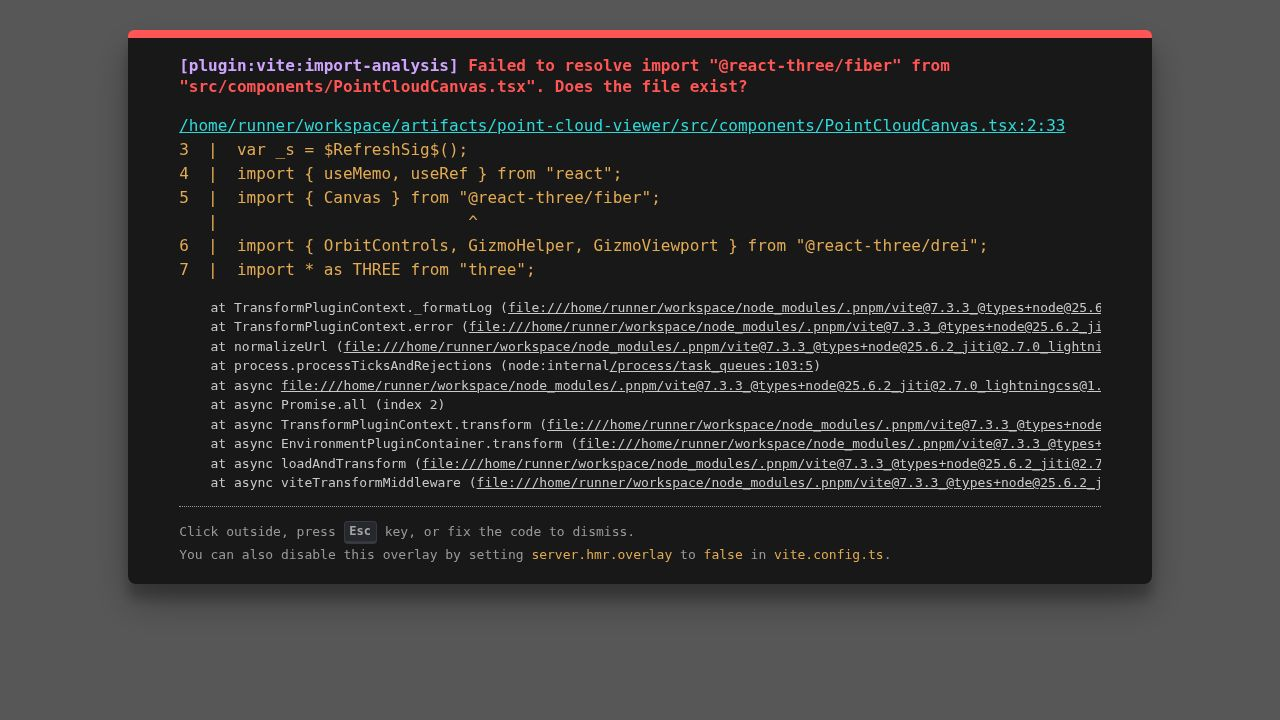
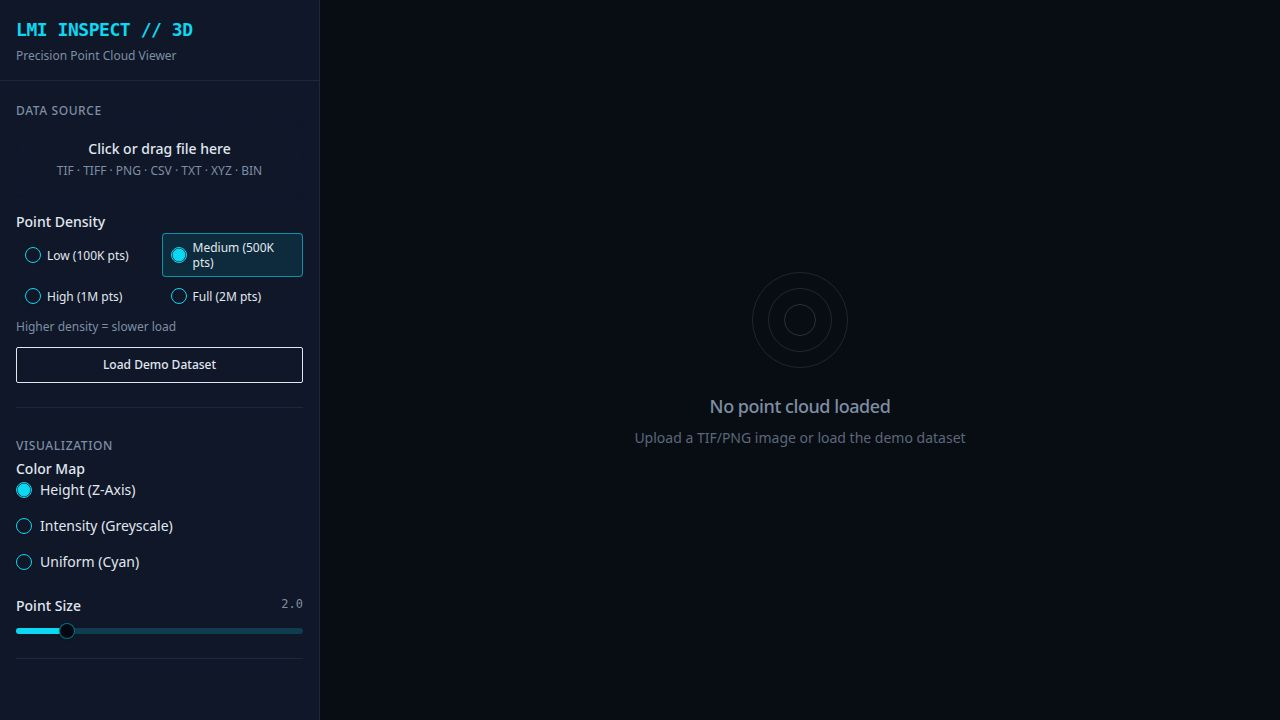
Improve app stability and memory usage when processing image files
Enhance Python server memory management and frontend timeout handling for TIFF file processing.

Replit-Commit-Author: Agent
Replit-Commit-Session-Id: 697ac9eb-e9fb-43b2-a009-babffc1647e0
Replit-Commit-Checkpoint-Type: full_checkpoint
Replit-Commit-Event-Id: c56e9d9b-1851-488a-940e-ed00a4a06205
Replit-Commit-Screenshot-Url: https://storage.googleapis.com/screenshot-production-us-central1/77319abf-6f19-4b1a-aa1f-67db4e9a3fd7/697ac9eb-e9fb-43b2-a009-babffc1647e0/qyPgxEJ
Replit-Helium-Checkpoint-Created: true

diff --git a/artifacts/point-cloud-viewer/src/lib/point-cloud.ts b/artifacts/point-cloud-viewer/src/lib/point-cloud.ts
@@ -171,14 +171,41 @@ export function parseCsv(text: string): PointCloudData {
 
 const MAGIC = 0x504c4300;
 
-export async function parseFromServer(file: File, maxPoints = 500_000): Promise<PointCloudData> {
+export async function parseFromServer(
+  file: File,
+  maxPoints = 100_000,
+  onStage?: (msg: string) => void,
+): Promise<PointCloudData> {
   const form = new FormData();
   form.append("file", file);
-  const res = await fetch(`/pc-api/upload?max_points=${maxPoints}`, { method: "POST", body: form });
+
+  onStage?.("Uploading to processor…");
+
+  const controller = new AbortController();
+  const timer = setTimeout(() => controller.abort(), 120_000); // 2-min hard timeout
+
+  let res: Response;
+  try {
+    res = await fetch(`/pc-api/upload?max_points=${maxPoints}`, {
+      method: "POST",
+      body: form,
+      signal: controller.signal,
+    });
+  } catch (e: unknown) {
+    if (e instanceof DOMException && e.name === "AbortError") {
+      throw new Error("Processing timed out (2 min). Try a lower density or a smaller file.");
+    }
+    throw e;
+  } finally {
+    clearTimeout(timer);
+  }
+
   if (!res.ok) {
     const err = await res.json().catch(() => ({ detail: res.statusText }));
     throw new Error(err.detail ?? `Server error ${res.status}`);
   }
+
+  onStage?.("Downloading point data…");
   const buf = await res.arrayBuffer();
   // Parse binary header: 7 x int32
   const header = new Int32Array(buf, 0, 7);
@@ -198,11 +225,15 @@ export async function parseFromServer(file: File, maxPoints = 500_000): Promise<
   };
 }
 
-export async function parseFile(file: File, maxPoints = 500_000): Promise<PointCloudData> {
+export async function parseFile(
+  file: File,
+  maxPoints = 100_000,
+  onStage?: (msg: string) => void,
+): Promise<PointCloudData> {
   const ext = file.name.split('.').pop()?.toLowerCase() ?? '';
 
   if (ext === 'tif' || ext === 'tiff' || ext === 'png') {
-    return parseFromServer(file, maxPoints);
+    return parseFromServer(file, maxPoints, onStage);
   }
 
   if (ext === 'bin' || ext === 'raw' || ext === 'lmi') {

diff --git a/artifacts/point-cloud-viewer/src/pages/Home.tsx b/artifacts/point-cloud-viewer/src/pages/Home.tsx
@@ -36,13 +36,10 @@ export default function Home() {
     setError(null);
     const ext = file.name.split(".").pop()?.toLowerCase() ?? "";
     const isImage = ext === "tif" || ext === "tiff" || ext === "png";
-    setLoadingStage(isImage ? "Uploading to processor..." : "Parsing file...");
+    setLoadingStage(isImage ? "Uploading to processor…" : "Parsing file…");
     try {
-      if (isImage) {
-        setLoadingStage("Reading image data...");
-      }
-      const parsed = await parseFile(file, pts ?? maxPoints);
-      setLoadingStage("Building point cloud...");
+      const parsed = await parseFile(file, pts ?? maxPoints, setLoadingStage);
+      setLoadingStage("Building point cloud…");
       setData(parsed);
     } catch (e: unknown) {
       setError(e instanceof Error ? e.message : "Failed to parse file");

diff --git a/artifacts/pc-processor/main.py b/artifacts/pc-processor/main.py
@@ -1,11 +1,16 @@
 import os
+import gc
 import io
 import struct
+import logging
 import numpy as np
 import tifffile
 from fastapi import FastAPI, File, UploadFile, HTTPException, Query
 from fastapi.middleware.cors import CORSMiddleware
 from fastapi.responses import Response
+
+logging.basicConfig(level=logging.INFO, format="%(levelname)s: %(message)s")
+log = logging.getLogger(__name__)
 
 app = FastAPI()
 
@@ -17,149 +22,121 @@ app.add_middleware(
 )
 
 MAX_FILE_MB = 500
-DEFAULT_MAX_POINTS = 500_000
+DEFAULT_MAX_POINTS = 100_000
 HARD_MAX_POINTS = 2_000_000
 
 
-def downsample(positions: np.ndarray, max_pts: int) -> np.ndarray:
-    """Uniform stride downsample — keeps spatial distribution."""
-    n = positions.shape[0]
-    if n <= max_pts:
-        return positions
-    step = max(1, n // max_pts)
-    return positions[::step]
-
-
 def clean_positions(xs: np.ndarray, ys: np.ndarray, zs: np.ndarray) -> np.ndarray:
-    """Stack and remove NaN, Inf, and all-zero rows."""
-    positions = np.stack([xs, ys, zs], axis=-1).astype(np.float32)
-    # Remove NaN or Inf
+    positions = np.column_stack([
+        xs.ravel().astype(np.float32),
+        ys.ravel().astype(np.float32),
+        zs.ravel().astype(np.float32),
+    ])
     valid = np.isfinite(positions).all(axis=1)
-    # Remove all-zero rows (masked/invalid pixels)
     valid &= ~((positions[:, 0] == 0) & (positions[:, 1] == 0) & (positions[:, 2] == 0))
-    return positions[valid]
+    return np.ascontiguousarray(positions[valid])
 
 
 def read_tif(data: bytes, max_pts: int) -> tuple[np.ndarray, dict]:
-    """
-    Read LMI 3-channel TIFF using tifffile.
-    Handles (H,W), (H,W,C), (C,H,W) layouts.
-    Returns (positions: Nx3 float32, meta: dict)
-    """
     with tifffile.TiffFile(io.BytesIO(data)) as tif:
         page = tif.pages[0]
-        bits = page.dtype.itemsize * 8
+        dtype = page.dtype
+        bits = dtype.itemsize * 8
+        shape = page.shape
+        log.info(f"TIFF shape={shape} dtype={dtype}")
 
-        # Read the first series — use level=0 for large images
-        try:
-            arr = tif.asarray()
-        except Exception as e:
-            raise ValueError(f"Could not decode TIFF: {e}")
-
-        arr = arr.astype(np.float32)
-
-        # Normalise shape to (H, W, C)
-        if arr.ndim == 2:
-            H, W = arr.shape
-            # Depth map: X=column, Y=row, Z=value
-            # Downsample spatially before building coordinate arrays
-            step = max(1, int(np.sqrt((H * W) / max_pts)))
-            arr_ds = arr[::step, ::step]
-            H2, W2 = arr_ds.shape
-            col_idx = np.tile(np.arange(W2, dtype=np.float32) * step, H2)
-            row_idx = np.repeat(np.arange(H2, dtype=np.float32) * step, W2)
-            zs = arr_ds.ravel()
-            positions = clean_positions(col_idx, row_idx, zs)
-            ch = 1
-        elif arr.ndim == 3:
-            # Detect (C, H, W) vs (H, W, C)
-            if arr.shape[0] <= 4 and arr.shape[0] < arr.shape[1] and arr.shape[0] < arr.shape[2]:
-                arr = np.moveaxis(arr, 0, -1)  # → (H, W, C)
-            H, W, C = arr.shape
-            ch = C
-
-            # Spatial downsample before extraction
-            step = max(1, int(np.sqrt((H * W) / max_pts)))
-            arr_ds = arr[::step, ::step, :]
-
-            if C == 1:
-                H2, W2 = arr_ds.shape[:2]
-                col_idx = np.tile(np.arange(W2, dtype=np.float32) * step, H2)
-                row_idx = np.repeat(np.arange(H2, dtype=np.float32) * step, W2)
-                zs = arr_ds[:, :, 0].ravel()
-                positions = clean_positions(col_idx, row_idx, zs)
-            elif C == 2:
-                xs = arr_ds[:, :, 0].ravel()
-                ys = arr_ds[:, :, 1].ravel()
-                zs = np.zeros_like(xs)
-                positions = clean_positions(xs, ys, zs)
+        # Determine H, W, C before loading any pixel data
+        if len(shape) == 2:
+            H, W, C = shape[0], shape[1], 1
+        elif len(shape) == 3:
+            # Could be (H,W,C) or (C,H,W) — detect by smallest first dim
+            if shape[0] <= 4 and shape[0] < shape[1] and shape[0] < shape[2]:
+                C, H, W = shape
             else:
-                # 3+ channels → X, Y, Z
-                xs = arr_ds[:, :, 0].ravel()
-                ys = arr_ds[:, :, 1].ravel()
-                zs = arr_ds[:, :, 2].ravel()
-                positions = clean_positions(xs, ys, zs)
+                H, W, C = shape
         else:
-            raise ValueError(f"Unsupported TIFF array shape: {arr.shape}")
+            raise ValueError(f"Unexpected TIFF shape: {shape}")
 
-    meta = {
-        "width": int(W) if "W" in dir() else 0,
-        "height": int(H) if "H" in dir() else 0,
-        "channels": int(ch),
-        "bitDepth": int(bits),
-        "pointCount": int(positions.shape[0]),
+        step = max(1, int(np.sqrt(H * W / max_pts)))
+        log.info(f"H={H} W={W} C={C} step={step} → ~{(H//step)*(W//step)} pts")
+
+        # Load the raw data — releases file handle on exit
+        raw = tif.asarray()
+
+    # ---- outside the TiffFile context — file handle closed ----
+
+    raw = raw.astype(np.float32)  # convert in-place-ish
+
+    if raw.ndim == 2:
+        arr_ds = raw[::step, ::step]
+        del raw; gc.collect()
+        H2, W2 = arr_ds.shape
+        xs = np.tile(np.arange(W2, dtype=np.float32) * step, H2)
+        ys = np.repeat(np.arange(H2, dtype=np.float32) * step, W2)
+        zs = arr_ds.ravel()
+        del arr_ds; gc.collect()
+
+    elif raw.ndim == 3:
+        # Normalise to (H, W, C) without copying if possible
+        if raw.shape[0] <= 4 and raw.shape[0] < raw.shape[1]:
+            raw = np.moveaxis(raw, 0, -1)   # (C,H,W) → (H,W,C)
+        H2_pre, W2_pre, C = raw.shape
+        arr_ds = np.ascontiguousarray(raw[::step, ::step, :])
+        del raw; gc.collect()
+        H2, W2 = arr_ds.shape[:2]
+
+        if C >= 3:
+            xs = arr_ds[:, :, 0].ravel()
+            ys = arr_ds[:, :, 1].ravel()
+            zs = arr_ds[:, :, 2].ravel()
+        elif C == 2:
+            xs = arr_ds[:, :, 0].ravel()
+            ys = arr_ds[:, :, 1].ravel()
+            zs = np.zeros(H2 * W2, dtype=np.float32)
+        else:  # 1 channel — depth map
+            xs = np.tile(np.arange(W2, dtype=np.float32) * step, H2)
+            ys = np.repeat(np.arange(H2, dtype=np.float32) * step, W2)
+            zs = arr_ds[:, :, 0].ravel()
+        del arr_ds; gc.collect()
+
+    else:
+        raise ValueError(f"Unexpected array ndim after load: {raw.ndim}")
+
+    positions = clean_positions(xs, ys, zs)
+    del xs, ys, zs; gc.collect()
+
+    log.info(f"Returning {positions.shape[0]} points")
+    return positions, {
+        "width": W, "height": H, "channels": C,
+        "bitDepth": bits, "pointCount": positions.shape[0],
     }
-    return positions, meta
 
 
 def read_png(data: bytes, max_pts: int) -> tuple[np.ndarray, dict]:
-    """Read PNG as 3-channel image → point cloud (R=X, G=Y, B=Z)."""
     from PIL import Image
     img = Image.open(io.BytesIO(data)).convert("RGB")
-    W, H = img.size
-
-    # Resize if too large
-    scale = min(1.0, (max_pts / (W * H)) ** 0.5)
+    W_orig, H_orig = img.size
+    scale = min(1.0, (max_pts / (W_orig * H_orig)) ** 0.5)
     if scale < 1.0:
-        W2, H2 = max(1, int(W * scale)), max(1, int(H * scale))
-        img = img.resize((W2, H2), Image.BILINEAR)
-    else:
-        W2, H2 = W, H
-
-    arr = np.array(img, dtype=np.float32) / 255.0  # (H2, W2, 3)
-    xs = (arr[:, :, 0] * W).ravel()
-    ys = (arr[:, :, 1] * H).ravel()
-    zs = (arr[:, :, 2] * W).ravel()
+        img = img.resize((max(1, int(W_orig * scale)), max(1, int(H_orig * scale))), Image.BILINEAR)
+    arr = np.array(img, dtype=np.float32) / 255.0
+    del img; gc.collect()
+    xs = (arr[:, :, 0] * W_orig).ravel()
+    ys = (arr[:, :, 1] * H_orig).ravel()
+    zs = (arr[:, :, 2] * W_orig).ravel()
+    del arr; gc.collect()
     positions = clean_positions(xs, ys, zs)
-    meta = {"width": W, "height": H, "channels": 3, "bitDepth": 8, "pointCount": int(positions.shape[0])}
-    return positions, meta
+    return positions, {"width": W_orig, "height": H_orig, "channels": 3, "bitDepth": 8}
 
 
 def encode_response(positions: np.ndarray, meta: dict) -> bytes:
-    """
-    Binary wire format:
-      Header  7 × int32 (28 bytes):
-        [0] magic = 0x504C4300
-        [1] point_count
-        [2] original_width
-        [3] original_height
-        [4] channels
-        [5] bit_depth
-        [6] reserved
-      Body: float32[N*3] interleaved X, Y, Z
-    """
     N = positions.shape[0]
     header = struct.pack(
-        "<7i",
-        0x504C4300,
-        N,
-        meta.get("width", 0),
-        meta.get("height", 0),
-        meta.get("channels", 3),
-        meta.get("bitDepth", 32),
-        0,
+        "<7i", 0x504C4300, N,
+        meta.get("width", 0), meta.get("height", 0),
+        meta.get("channels", 3), meta.get("bitDepth", 32), 0,
     )
-    return header + positions.astype(np.float32).tobytes()
+    return header + np.ascontiguousarray(positions, dtype=np.float32).tobytes()
 
 
 @app.get("/pc-api/healthz")
@@ -172,44 +149,47 @@ async def upload_file(
     file: UploadFile = File(...),
     max_points: int = Query(default=DEFAULT_MAX_POINTS, ge=1000, le=HARD_MAX_POINTS),
 ):
-    # Size guard
     data = await file.read()
     size_mb = len(data) / (1024 * 1024)
+    log.info(f"Received {file.filename!r} size={size_mb:.1f} MB max_points={max_points}")
+
     if size_mb > MAX_FILE_MB:
-        raise HTTPException(status_code=413, detail=f"File too large ({size_mb:.0f} MB). Max {MAX_FILE_MB} MB.")
+        raise HTTPException(413, f"File too large ({size_mb:.0f} MB). Max {MAX_FILE_MB} MB.")
 
     filename = (file.filename or "").lower()
-
     try:
-        if filename.endswith(".tif") or filename.endswith(".tiff"):
+        if filename.endswith((".tif", ".tiff")):
             positions, meta = read_tif(data, max_points)
         elif filename.endswith(".png"):
             positions, meta = read_png(data, max_points)
         else:
-            raise HTTPException(status_code=400, detail=f"Unsupported format. Upload a TIF or PNG file.")
+            raise HTTPException(400, "Upload a .tif, .tiff, or .png file.")
     except HTTPException:
         raise
     except MemoryError:
-        raise HTTPException(status_code=507, detail="File too large to process. Try a smaller file or lower max_points.")
+        gc.collect()
+        raise HTTPException(507, "Not enough memory to process this file. Try a smaller file.")
     except Exception as e:
-        raise HTTPException(status_code=422, detail=f"Parse error: {str(e)}")
+        log.exception("Parse error")
+        raise HTTPException(422, f"Parse error: {e}")
+    finally:
+        del data; gc.collect()
 
     if positions.shape[0] == 0:
-        raise HTTPException(status_code=422, detail="No valid points found. The file may be empty or fully masked.")
+        raise HTTPException(422, "No valid points found — file may be fully masked or all-zero.")
 
     payload = encode_response(positions, meta)
+    n = positions.shape[0]
+    del positions; gc.collect()
+
     return Response(
         content=payload,
         media_type="application/octet-stream",
-        headers={
-            "X-Point-Count": str(positions.shape[0]),
-            "X-Image-Width": str(meta.get("width", 0)),
-            "X-Image-Height": str(meta.get("height", 0)),
-        },
+        headers={"X-Point-Count": str(n)},
     )
 
 
 if __name__ == "__main__":
     import uvicorn
     port = int(os.environ.get("PORT", 7891))
-    uvicorn.run(app, host="0.0.0.0", port=port, timeout_keep_alive=120)
+    uvicorn.run(app, host="0.0.0.0", port=port, timeout_keep_alive=300)